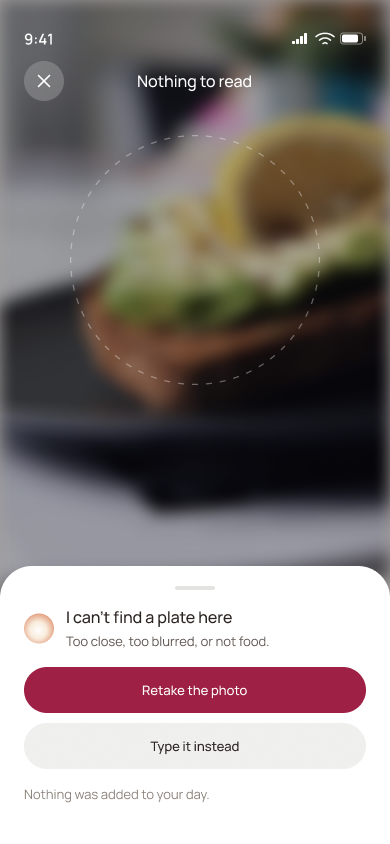
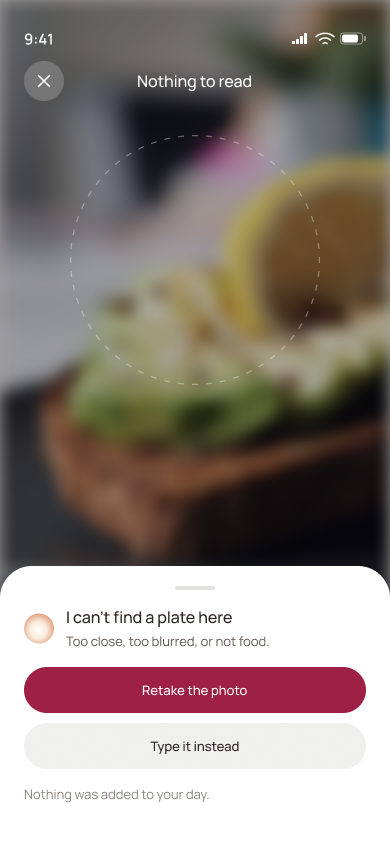
branding: main collage stylescape; motion on the edge cases
Stylescape · Zest is rebuilt in the manner of the brief's references — a dense mosaic of
hard-edged tiles with stickers across the seams: the idea with words set on a circle, the
lens and one number, the live Today screen, the icon set and the voice, a real plate
sampled into the palette, the type and the AI at work. One idea runs through it: the
plate, the lens, the orb and the day are all circles.

The eight edge cases now move by the same AI-only rule, each motion naming its state.

Claude-Session: https://claude.ai/code/session_01FDPnJdAVQFe1ai4QzDTio4

diff --git a/README.md b/README.md
@@ -2,6 +2,8 @@
 
 ![Zest — cover](cover.png)
 
+![Stylescape · Zest](01-branding/stylescape-zest.png)
+
 Test task for the UX/UI Trainee Designer role at Jito.
 Brief: [jito-dev/trainee-designer-apr-2026-test-task](https://github.com/jito-dev/trainee-designer-apr-2026-test-task) (branch `develop`).
 
@@ -79,7 +81,7 @@ status bar at 0, navigation at 59, bottom bar 24 from the edge.
 
 | # | Deliverable | Where |
 |---|---|---|
-| 1 | Branding / stylescapes | Figma page `01 · Branding` — logo exploration and four 4000 × 1000 stylescapes: **Where it comes from** (the sources: peel, light, colours sampled from a real plate, photography), **Natural light** (the brand), **The plate is data** (the product), **No verdicts** (the voice). Exports in [`01-branding/`](01-branding/) |
+| 1 | Branding / stylescapes | Figma page `01 · Branding` — logo exploration, the main stylescape **Stylescape · Zest** (a dense collage built on one idea: the plate, the lens, the orb and the day are all circles), and four supporting 4000 × 1000 stylescapes: **Where it comes from** (the sources: peel, light, colours sampled from a real plate, photography), **Natural light** (the brand), **The plate is data** (the product), **No verdicts** (the voice). Exports in [`01-branding/`](01-branding/) |
 | 2 | Design system | Figma pages `02 · Foundations` and `03 · Components` |
 | 3 | Key screens & flows | Figma page `05 · Flow map` ([`03-screens/00-flow-map.png`](03-screens/00-flow-map.png)) and page `04 · Screens & Prototype` — 10 happy-path screens and 8 edge cases, ~60 prototype links, 9 flows (the full journey + one per edge case). Exports in [`03-screens/`](03-screens/) and [`04-edge-cases/`](04-edge-cases/) |
 
@@ -127,8 +129,13 @@ moves, so when something does, it is always the assistant.
 | Ask Zest | The orb breathes; the question, the answer and the next steps arrive in order | It is thinking, then answering |
 | Today · Result · Recipe detail | The Zest orb on the insight tile pulses gently | This line was written by the assistant |
 
-Built with Figma Motion keyframes and checked frame by frame from a rendered video. In the
-edge cases the motion stops on purpose — a stopped orbit is how "no connection" looks.
+Built with Figma Motion keyframes and checked frame by frame from a rendered video.
+
+The edge cases move by the same rule, and the motion says what state the AI is in: the
+dashed ring keeps drifting when it can't find a plate, the likelier dish breathes when it
+asks, the flash pulses when the fix is light, the sheet rises and then Zest says "Noted"
+when a correction is saved. With no connection the orbit stops — only a slow heartbeat on
+the bead says it is waiting.
 
 ### Edge cases
 

diff --git a/docs/PROGRESS.md b/docs/PROGRESS.md
@@ -10,7 +10,7 @@ conversation.
 | Page | State |
 |---|---|
 | `00 · Cover` | cover 1920 × 1080 (exported as `cover.png`) |
-| `01 · Branding` | logo exploration (3 marks) + four stylescapes 4000 × 1000 (Where it comes from · Natural light · The plate is data · No verdicts) |
+| `01 · Branding` | logo exploration (3 marks) + main collage **Stylescape · Zest** + four supporting stylescapes 4000 × 1000 (Where it comes from · Natural light · The plate is data · No verdicts) |
 | `02 · Foundations` | colour, bloom recipe, type ramp, spacing, radius |
 | `03 · Components` | Logo, StatusBar, Nav, Button, Chip, Badge, RoundControl |
 | `04 · Screens & Prototype` | 10 screens, wired, start point on Welcome |
@@ -103,6 +103,10 @@ S07 Ask Zest · S08 Recipes · S09 Recipe detail · S10 History
 - **Stylescape 00 · Where it comes from** — the moodboard: the peel → the mark and a drawn citrus cross-section, light not
   colour, the palette sampled with eyedroppers from a real plate, daylight photography.
 - **Cover** and **Flow map** pages built.
+- **Stylescape · Zest** — the main stylescape rebuilt as a reference-style mosaic: hard-edged
+  tiles (idea, lens + 516, live Today, icons + voice, sampled plate + palette, type + 2.2 s)
+  with stickers across the seams and text on a circle.
+- **Edge-case motion** — every edge case animates by the same AI-only rule.
 - **Yellows muted** at Sofia's request: `bloom/butter` `#EDD28E`, `macro/carbs` `#E6BC6A`.
 - **Secondary button fixed**: new token `action/secondary` (ink at 7 %) — binding a paint to
   a variable drops the paint's own opacity, so the alpha has to live in the variable.

diff --git a/04-edge-cases/README.md b/04-edge-cases/README.md
@@ -26,3 +26,11 @@ Every case keeps the product's rules:
 
 In the prototype each case is its own flow (`Edge · …` in Present mode), and each one
 returns to the happy path through its own button.
+
+## Motion
+
+Each case animates by the product's one motion rule — movement means the AI is working —
+so the motion names the state: searching (E01, the dashed ring drifts by a whole number
+of dashes so the loop is seamless), asking (E02), pointing at the fix (E03, the flash
+pulses), waiting (E04, the orbit is still and the bead only breathes), answering (E05),
+stating a fact (E06, the bars reach past the end), inviting (E07), learning (E08).

diff --git a/links.md b/links.md
@@ -15,7 +15,7 @@ edge case (`Edge · …`).
 ## Figma pages
 
 - `00 · Cover`
-- `01 · Branding` — logo exploration and four stylescapes
+- `01 · Branding` — logo exploration, the main stylescape and four supporting stylescapes
 - `02 · Foundations` — colour, the bloom, type, spacing
 - `03 · Components` — the component library
 - `04 · Screens & Prototype` — 10 screens + 8 edge cases, connected; 9 flows in Present mode
